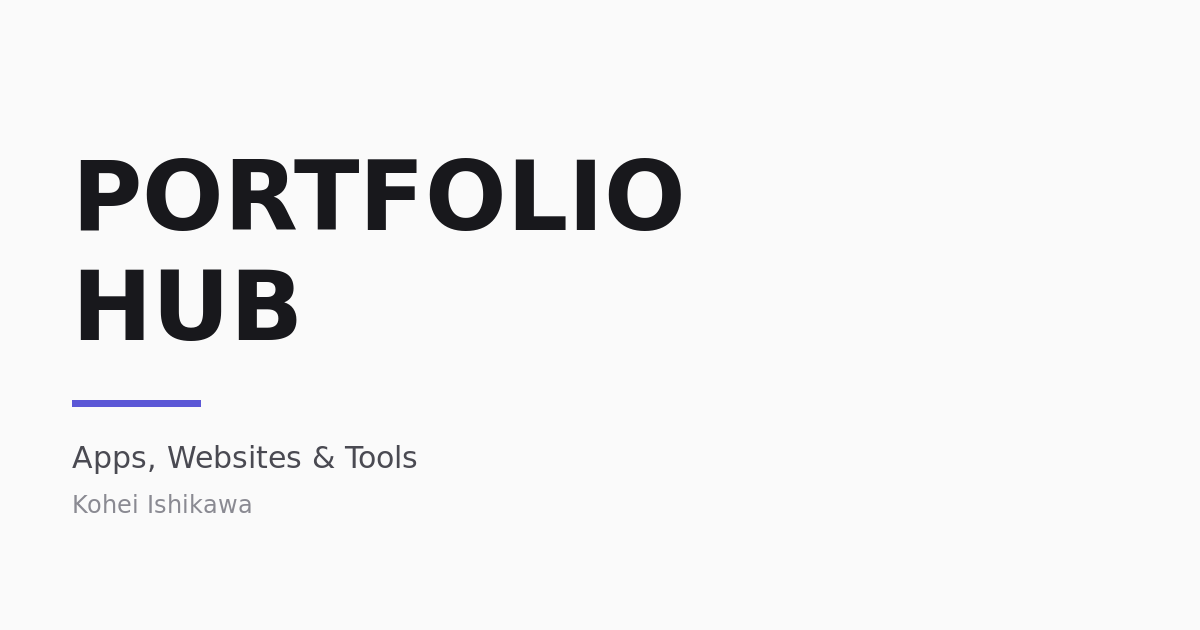
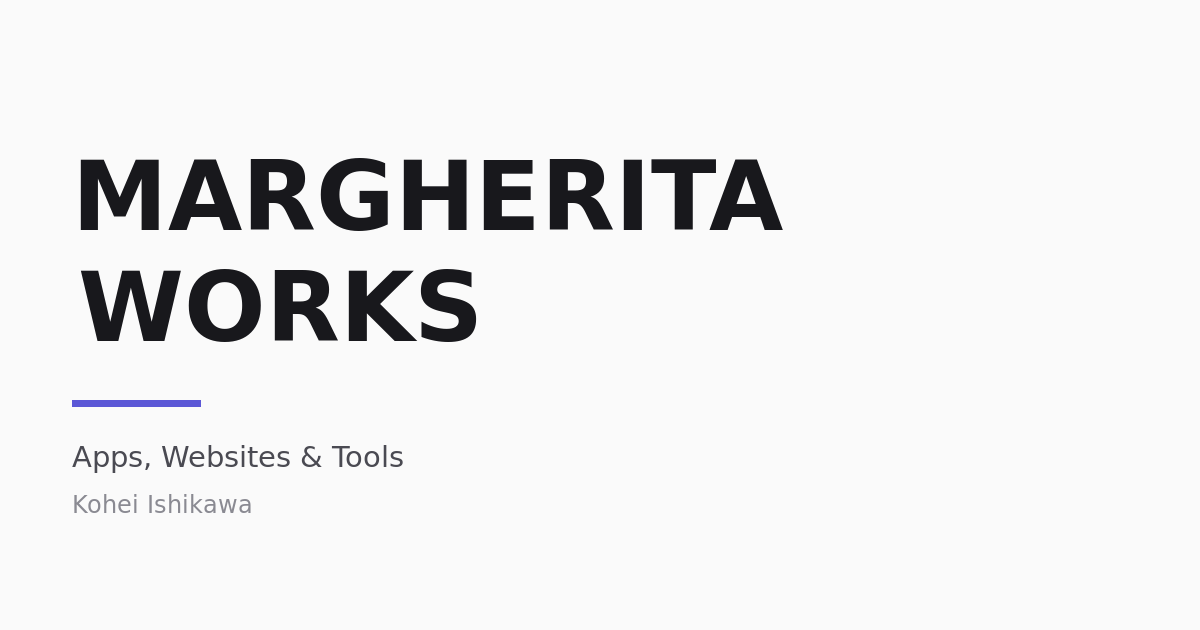
Phase 3: rebrand site display text and metadata to Margherita Works
- Header wordmark, footer copyright, <title>/og:title, schema.org
  WebSite name, ja/en meta titles, and the project-detail <title>
  builder all switch from "Portfolio Hub" to "Margherita Works".
- The "portfolio-hub" self-listing card in projects.ts now displays
  as "Margherita Works".
- Regenerated public/og.png: measured the original PNG's exact
  layout/colors/type proportions and rebuilt it with "MARGHERITA
  WORKS" in place of "PORTFOLIO HUB" (same background, ink color,
  accent bar color, subtitle and author lines) rather than leaving
  the old wordmark baked into the shared social-preview image.

Left unchanged, needs a human decision: public/favicon.svg (abstract
mark, no literal old branding, no Margherita Works logo to swap in
yet), the hero copy (already brand-neutral and high quality, plan's
suggested tagline not forced in), the Footer contact email (differs
from the address on file, unclear if intentional), and the
'portfolio-hub.lang' localStorage key / package.json name / README /
CLAUDE.md (out of Phase 3's scope per the migration plan).

Claude-Session: https://claude.ai/code/session_01UBNqhrDdtMgffjpayF9jGs

Changed region(s): [[0.0617, 0.2413, 0.6475, 0.3921], [0.0617, 0.4222, 0.4008, 0.5429], [0.0617, 0.6937, 0.3392, 0.754]]

diff --git a/index.html b/index.html
@@ -4,14 +4,14 @@
     <meta charset="UTF-8" />
     <meta name="viewport" content="width=device-width, initial-scale=1.0" />
     <link rel="icon" href="/favicon.svg" type="image/svg+xml" />
-    <title>Kohei Ishikawa Portfolio Hub — Apps, Websites &amp; Tools</title>
+    <title>Margherita Works — Apps, Websites &amp; Tools</title>
     <meta name="description" content="個人で開発しているiPhoneアプリ・Webアプリ・ツールをまとめたポートフォリオ。" />
     <meta name="author" content="Kohei Ishikawa" />
     <meta name="google-site-verification" content="l0C32jaImRYngPnBZuOuazcBqCZQjFv3WLgOJn-ZrBw" />
-    <meta property="og:title" content="Kohei Ishikawa Portfolio Hub — Apps, Websites & Tools" />
+    <meta property="og:title" content="Margherita Works — Apps, Websites & Tools" />
     <meta property="og:description" content="個人で開発しているiPhoneアプリ・Webアプリ・ツールをまとめたポートフォリオ。" />
     <meta property="og:type" content="website" />
-    <meta property="og:image" content="https://isitest1.github.io/portfolio-hub/og.png" />
+    <meta property="og:image" content="https://margheritaworks.com/og.png" />
     <meta property="og:image:width" content="1200" />
     <meta property="og:image:height" content="630" />
     <meta name="twitter:card" content="summary_large_image" />
@@ -25,8 +25,8 @@
       {
         "@context": "https://schema.org",
         "@type": "WebSite",
-        "name": "Kohei Ishikawa Portfolio Hub",
-        "url": "https://isitest1.github.io/portfolio-hub/",
+        "name": "Margherita Works",
+        "url": "https://margheritaworks.com/",
         "author": { "@type": "Person", "name": "Kohei Ishikawa", "email": "kouhei10@gmail.com" }
       }
     </script>

diff --git a/src/i18n/translations.ts b/src/i18n/translations.ts
@@ -37,7 +37,7 @@ export interface UI {
 export const ui: Record<Lang, UI> = {
   ja: {
     meta: {
-      title: 'Kohei Ishikawa Portfolio Hub — つくったアプリと、その使いどころ',
+      title: 'Margherita Works — つくったアプリと、その使いどころ',
       description:
         'iPhoneアプリ、Webアプリ、小さなツールをつくっています。それぞれのプロダクトが何をするもので、どこから使えるのかをまとめた場所です。',
     },
@@ -76,7 +76,7 @@ export const ui: Record<Lang, UI> = {
   },
   en: {
     meta: {
-      title: 'Kohei Ishikawa Portfolio Hub — Apps, Websites & Tools',
+      title: 'Margherita Works — Apps, Websites & Tools',
       description:
         'iPhone apps, web apps and small utilities I build. What each product does, and where to start using it.',
     },

diff --git a/src/components/Footer.tsx b/src/components/Footer.tsx
@@ -5,7 +5,7 @@ const CONTACT_EMAIL = 'kouhei10@gmail.com';
 export default function Footer() {
   return (
     <footer className="site-footer" id="footer">
-      <span>© {new Date().getFullYear()} Kohei Ishikawa</span>
+      <span>© {new Date().getFullYear()} Margherita Works by Kohei Ishikawa</span>
       <div className="site-footer__right">
         <a className="site-footer__contact" href={`mailto:${CONTACT_EMAIL}`}>
           {CONTACT_EMAIL}

diff --git a/src/components/Header.tsx b/src/components/Header.tsx
@@ -7,7 +7,7 @@ export default function Header() {
   return (
     <header className="site-header">
       <Link to={path()} className="wordmark">
-        KOHEI ISHIKAWA <span className="wordmark__sep">/</span> PORTFOLIO HUB
+        KOHEI ISHIKAWA <span className="wordmark__sep">/</span> MARGHERITA WORKS
       </Link>
       <nav className="site-nav" aria-label={t.nav.products}>
         <a href="#products">{t.nav.products}</a>

diff --git a/src/pages/ProjectDetail.tsx b/src/pages/ProjectDetail.tsx
@@ -13,7 +13,7 @@ export default function ProjectDetail() {
   const project = projects.find((p) => p.id === id);
 
   useSeo(
-    project ? `${project.name[lang]} — Kohei Ishikawa Portfolio Hub` : t.notFound.title,
+    project ? `${project.name[lang]} — Margherita Works` : t.notFound.title,
     project ? project.description[lang] : t.notFound.body
   );
 

diff --git a/src/data/projects.ts b/src/data/projects.ts
@@ -373,7 +373,7 @@ export const projects: Project[] = [
   },
   {
     id: 'portfolio-hub',
-    name: { ja: 'Portfolio Hub', en: 'Portfolio Hub' },
+    name: { ja: 'Margherita Works', en: 'Margherita Works' },
     category: 'Website',
     status: 'active',
     technologies: ['React', 'TypeScript', 'Vite', 'GitHub Pages'],

diff --git a/docs/phase3-branding-changes.md b/docs/phase3-branding-changes.md
@@ -1,0 +1,76 @@
+# Phase 3 実施記録 — サイトのブランド変更
+
+対象: `margherita-works-domain-migration-plan.md` Phase 3
+前提: Phase 0（調査）/ Phase 1（ドメイン取得・DNSSECは保留）/ Phase 2（GitHub Pages側の事前変更）完了済み
+
+## 表示文言の変更
+
+| 箇所 | 変更前 | 変更後 |
+|---|---|---|
+| `src/components/Header.tsx` ワードマーク | `KOHEI ISHIKAWA / PORTFOLIO HUB` | `KOHEI ISHIKAWA / MARGHERITA WORKS` |
+| `src/components/Footer.tsx` 著作権表示 | `© {year} Kohei Ishikawa` | `© {year} Margherita Works by Kohei Ishikawa`（年は動的のまま） |
+| `src/data/projects.ts` の `portfolio-hub` プロジェクト表示名 | `Portfolio Hub` (ja/en共通) | `Margherita Works` (ja/en共通) |
+
+## メタデータの変更
+
+| 箇所 | 変更前 | 変更後 |
+|---|---|---|
+| `index.html` `<title>` | `Kohei Ishikawa Portfolio Hub — Apps, Websites & Tools` | `Margherita Works — Apps, Websites & Tools` |
+| `index.html` `og:title` | 同上 | 同上（新表記に統一） |
+| `index.html` schema.org `WebSite.name` | `Kohei Ishikawa Portfolio Hub` | `Margherita Works` |
+| `index.html` `og:image` / schema `url` | 旧ドメイン | `https://margheritaworks.com/...`（Phase 2で対応済み） |
+| `src/i18n/translations.ts` `meta.title`（ja） | `Kohei Ishikawa Portfolio Hub — つくったアプリと、その使いどころ` | `Margherita Works — つくったアプリと、その使いどころ` |
+| `src/i18n/translations.ts` `meta.title`（en） | `Kohei Ishikawa Portfolio Hub — Apps, Websites & Tools` | `Margherita Works — Apps, Websites & Tools` |
+| `src/pages/ProjectDetail.tsx` の詳細ページタイトル組み立て | `` `${name} — Kohei Ishikawa Portfolio Hub` `` | `` `${name} — Margherita Works` `` |
+
+`meta description`（ja/en）はもともと `Portfolio Hub` という文字列を含んでいなかったため変更していません。canonical URL / hreflang / og:url は `src/i18n/LanguageProvider.tsx` と `src/i18n/seo.ts` が `window.location.origin` と Vite の `BASE_URL` から動的に組み立てる設計のため、Phase 2 で `base` をルートにした時点で自動的に新ドメイン基準になります（コード変更不要、既存設計のまま）。
+
+## OG画像の再生成
+
+`public/og.png` に `PORTFOLIO HUB` という文字が直接焼き込まれていたため、これはメタデータ更新だけでは直らない実体のある画像でした。
+
+- 元画像のレイアウト・配色・比率を実測して再現:
+  - 背景 `#FAFAFA`
+  - 見出し 2行（元: `PORTFOLIO` / `HUB`）を `MARGHERITA` / `WORKS` に差し替え、色 `#18181C`、太字グロテスクサンセリフ
+  - アクセントバー `#5B57D6`（元画像から実測した色をそのまま使用）
+  - サブタイトル `Apps, Websites & Tools`（`#4A4A52`、変更なし・据え置き）
+  - 著者名 `Kohei Ishikawa`（`#8A8A92`、変更なし・据え置き）
+- フォントはサイト本体で使っている Archivo ではなく、環境にあった DejaVu Sans Bold で再現しています（グロテスクサンセリフとして近い印象ですが完全一致ではありません）。
+- レイアウト座標は元画像の実ピクセルを計測して踏襲しており、機械的なテキスト差し替えです。新規のロゴデザインやクリエイティブな作り直しはしていません。
+
+## 意図的に今回は変更していないもの（要確認・要判断）
+
+- **`public/favicon.svg`**: 抽象的な3本バーのマーク（`Portfolio Hub` という文字は含まれていない）。ブランド名を直接表しているわけではないため、今回はそのまま残しています。`Margherita Works` 用に専用のロゴ/ファビコンを新しく作る場合は、デザインの意思決定が必要なためこちらでは判断していません。
+- **Heroの本文（`hero.headline` / `hero.body`）**: 計画書は「必要に応じて」次のタグライン使用を提案していました。
+  ```
+  ja: 小さな工夫を、便利なプロダクトに。
+  en: Small ideas, useful products.
+  ```
+  既存のHero文章（`APPS, WEBSITES & TOOLS.` + 本文）はすでに具体的で高品質、かつブランド名を含んでいなかったため、今回は変更していません。デザインを全面変更しないというClaudeへの実行指示（計画書13章 #4）に沿った判断です。このタグラインを使いたい場合は、どこに配置するか（Heroのサブテキスト、About、Footerなど）を別途指示してください。
+- **`Footer.tsx` の `CONTACT_EMAIL = 'kouhei10@gmail.com'`**: このアドレスは環境情報として渡されている連絡先（`kouhei1@gmail.com`）と綴りが異なります。既存サイトの実装のままで、今回のブランド/ドメイン変更とは無関係な既存の値のため変更していません。意図した別アドレスなのか、誤字なのかをご確認ください。
+- **`src/i18n/LanguageProvider.tsx` の `localStorage` キー `'portfolio-hub.lang'`**: URLではなくブラウザ内保存キーのため動作に影響しません。改名すると既存訪問者の言語設定が一度リセットされるため、Phase 2の記録同様、今回は据え置いています。
+- **`README.md` / `CLAUDE.md` 内の `Portfolio Hub` 表記**: 計画書の構成上、これらはPhase 9（GitHub全体の更新）で扱う項目のため、Phase 3では変更していません。
+
+## 検証結果
+
+- `npm run typecheck` ✅ / `npm run build` ✅
+- ビルド成果物 (`dist/assets/*.js`, `dist/index.html`) を文字列検索し、`Portfolio Hub` / `PORTFOLIO HUB` の表示文言が残っていないことを確認。`portfolio-hub`（小文字・ハイフン区切り）は意図した4箇所のみ残存（プロジェクトの `id`、`localStorage` キー、GitHubリポジトリURL、スクリーンショットのファイル名参照）— これらはURLやIDであり表示文言ではないため対象外。
+- `Margherita Works` / `MARGHERITA WORKS` がビルド済みJSと`index.html`に出力されていることを確認。
+
+## Phase 3 完了状況
+
+- [x] `Portfolio Hub` を公開画面では `Margherita Works` に変更
+- [x] 日本語・英語のヘッダー、フッター、ページタイトルを更新
+- [ ] Heroの説明文差し替え → 意図的に見送り（上記参照、必要なら追加指示を）
+- [x] フッターの著作権表示を `© {year} Margherita Works by Kohei Ishikawa` に更新
+- [x] `<title>` 更新
+- [x] meta description 確認（変更不要と判断）
+- [x] OGの `og:title` / `og:image` 更新、`og:url` は動的生成のため対応不要
+- [x] canonical URL（動的生成のため対応不要、Phase 2のbase変更で自動追従）
+- [x] robots.txt / sitemap.xml（Phase 2で対応済み）
+- [x] manifest.webmanifest（存在しないため対象外）
+- [x] 構造化データ（JSON-LD）の名称・URL更新
+- [x] faviconとOG画像 → OG画像は再生成済み、faviconは意図的に据え置き（上記参照）
+- [x] 旧名称 `Portfolio Hub` が公開画面・ビルド成果物に残っていないことを確認
+- [x] サポート連絡先・プライバシーポリシー確認 → このリポジトリ自体には専用のプライバシー/サポートページが存在せず、各アプリ側で管理されているため対象外（Phase 0調査記録の通り）
+- [x] 法人と誤認させる表現がないことを確認（Header/Footerとも個人名+ブランド名の併記のみ）
